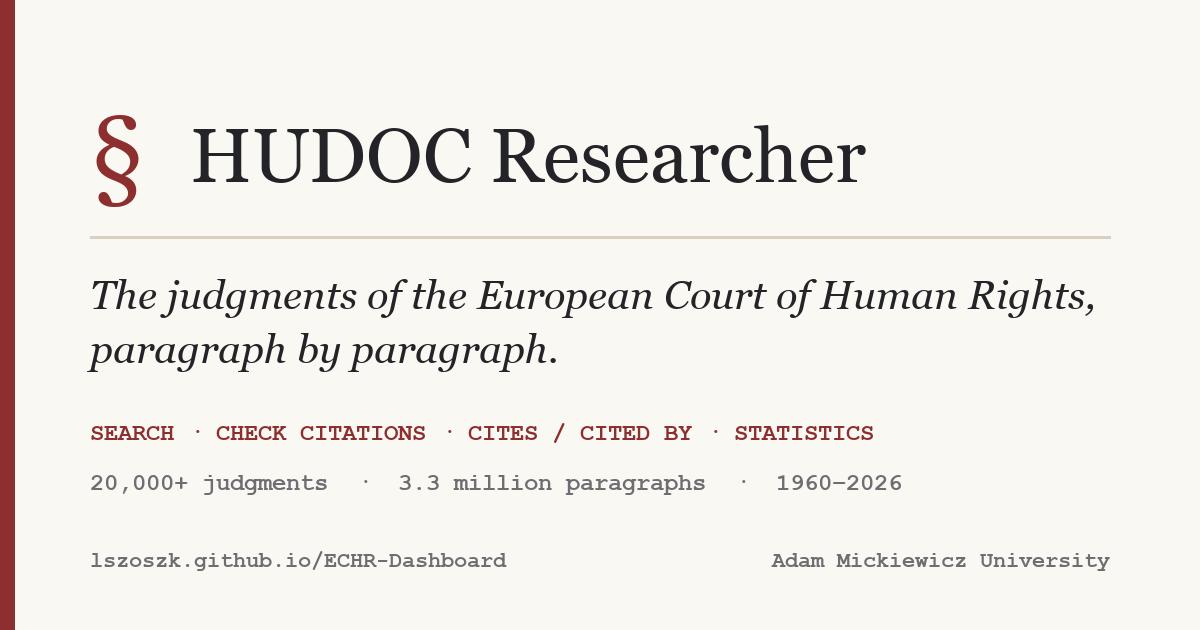
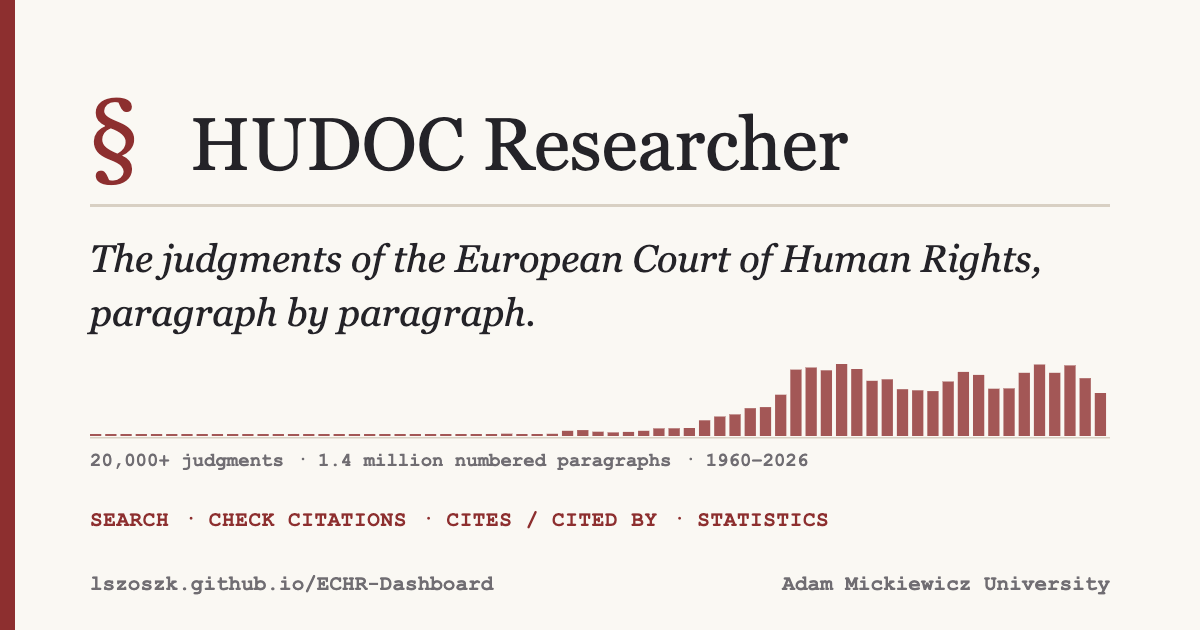
Remove the dead stat-bar code from search-app.js; new social preview card (SVG source + PNG)
statTotalCases / statTotalParagraphs / statTotalCountries / statDateRange have no element in
index.html, so every write went to a detached span: the four lookups, renderGlobalStats(), the
stats-fetch writes and the stats.json fallback are removed. Behaviour is unchanged.

Social card: docs/assets/social-card.svg is the source; social-card.png (1200x630, rendered from
it) is what og:image points to, because Facebook, LinkedIn, X, Slack and WhatsApp do not show
SVG previews. New card has judgments per year from the live data; og:image gets ?v= to refresh
crawler caches.

diff --git a/docs/assets/search-app.js b/docs/assets/search-app.js
@@ -804,10 +804,6 @@ function cacheElements() {
 
   // Corpus figures: no longer shown on this page (the tour and the Collection block give them);
   // detached stand-ins keep the code that fills them harmless.
-  el.statTotalCases = byId("statTotalCases") || document.createElement("span");
-  el.statTotalParagraphs = byId("statTotalParagraphs") || document.createElement("span");
-  el.statTotalCountries = byId("statTotalCountries") || document.createElement("span");
-  el.statDateRange = byId("statDateRange") || document.createElement("span");
 
   el.resultsHeader = byId("resultsHeader");
   el.inlineSearchForm = byId("inlineSearchForm");
@@ -2769,28 +2765,6 @@ function initFilterMode() {
   document.querySelectorAll("[data-filter-mode]").forEach((b) => {
     b.addEventListener("click", () => setFilterMode(b.dataset.filterMode, true));
   });
-}
-
-function renderGlobalStats() {
-  // When server API is connected, KPI bar shows full server stats — don't overwrite
-  if (serverSearch.available) return;
-
-  const dates = state.cases
-    .map((c) => c.__judgmentDateTs)
-    .filter((x) => Number.isFinite(x))
-    .sort((a, b) => a - b);
-
-  let dateRange = "n/a";
-  if (dates.length) {
-    const first = new Date(dates[0]).toISOString().slice(0, 10);
-    const last = new Date(dates[dates.length - 1]).toISOString().slice(0, 10);
-    dateRange = `${first} to ${last}`;
-  }
-
-  el.statTotalCases.textContent = fmtInt.format(state.cases.length);
-  el.statTotalParagraphs.textContent = fmtInt.format(state.paragraphIndex.length);
-  el.statTotalCountries.textContent = fmtInt.format(state.countries.length);
-  el.statDateRange.textContent = dateRange;
 }
 
 function collectChecked(name) {
@@ -7098,7 +7072,6 @@ async function activateDataset(rawRows, sourceLabel, metaLine, invalidCount = 0)
 
   preprocessDataset(normalized);
   renderFilters();
-  renderGlobalStats();
 
   state.sourceLabel = sourceLabel;
 
@@ -7789,13 +7762,10 @@ function init() {
       setSearchEnabled(true);
       setApiStatus("live");
 
-      // Fetch full stats from server for KPI bar
+      // Full corpus figures from the server
       try {
         const statsData = await serverSearch.getStats();
         const fmt = new Intl.NumberFormat("en-US");
-        el.statTotalCases.textContent = fmt.format(statsData.total_cases || 0);
-        el.statTotalParagraphs.textContent = fmt.format(statsData.total_paragraphs || 0);
-        el.statTotalCountries.textContent = fmt.format(statsData.total_countries || 0);
         // The machine-translation option appears only where translations are loaded.
         const mtN = statsData.total_machine_translations || 0;
         const mtPill = document.getElementById("mtPill");
@@ -7808,11 +7778,6 @@ function init() {
         if (state.defaultView && state.corpusTotal && !el.resultsHeader.hidden) el.resultsCases.textContent = fmt.format(state.corpusTotal);
         const officialCount = document.getElementById("officialCount");
         if (officialCount && statsData.total_judgments) officialCount.textContent = fmt.format(statsData.total_judgments);
-        // Parse DD/MM/YYYY dates into readable range
-        const parseDMY = (s) => { if (!s) return null; const p = s.split("/"); return p.length === 3 ? `${p[2]}-${p[1]}-${p[0]}` : s; };
-        const df = parseDMY(statsData.date_from);
-        const dt = parseDMY(statsData.date_to);
-        if (df && dt) el.statDateRange.textContent = `${df} to ${dt}`;
       } catch (e) {
         console.warn("[Server Stats] Could not fetch stats:", e);
       }
@@ -7942,22 +7907,6 @@ function init() {
       const sourceActions = document.getElementById("sourceActions");
       if (sourceActions) sourceActions.classList.remove("hidden");
       document.getElementById("loadSampleBtn")?.click();
-
-      // Try to populate KPI from stats.json
-      try {
-        const r = await fetch("data/stats.json");
-        if (r.ok) {
-          const data = await r.json();
-          if (data?.summary) {
-            const s = data.summary;
-            const fmt = new Intl.NumberFormat("en-US");
-            if (el.statTotalCases.textContent === "-") el.statTotalCases.textContent = fmt.format(s.total_cases || 0);
-            if (el.statTotalParagraphs.textContent === "-") el.statTotalParagraphs.textContent = fmt.format(s.total_paragraphs || 0);
-            if (el.statTotalCountries.textContent === "-") el.statTotalCountries.textContent = fmt.format(s.unique_countries || 0);
-            if (el.statDateRange.textContent === "-") el.statDateRange.textContent = s.date_range_label || "-";
-          }
-        }
-      } catch (_) {}
     }
   });
 }

diff --git a/docs/index.html b/docs/index.html
@@ -11,7 +11,7 @@
   <meta property="og:title" content="HUDOC Researcher — Paragraph-Level Search">
   <meta property="og:description" content="Search every paragraph of the European Court of Human Rights&#x27; judgments in English: about 20,000 judgments split into the Court&#x27;s numbered paragraphs, with HUDOC operators, filters, OSCOLA citations and Cites / Cited by.">
   <meta property="og:url" content="https://lszoszk.github.io/ECHR-Dashboard/">
-  <meta property="og:image" content="https://lszoszk.github.io/ECHR-Dashboard/assets/social-card.png">
+  <meta property="og:image" content="https://lszoszk.github.io/ECHR-Dashboard/assets/social-card.png?v=20261011">
   <meta property="og:image:width" content="1200">
   <meta property="og:image:height" content="630">
   <meta property="og:image:alt" content="HUDOC Researcher — the judgments of the European Court of Human Rights, paragraph by paragraph">
@@ -564,6 +564,6 @@
 
   <button class="back-to-top" id="backToTopBtn" type="button" aria-label="Back to top" hidden>&uarr;</button>
 
-  <script src="assets/search-app.js?v=20261011-full"></script>
+  <script src="assets/search-app.js?v=20261011-nostat"></script>
 </body>
 </html>

diff --git a/docs/methodology.html b/docs/methodology.html
@@ -11,7 +11,7 @@
   <meta property="og:title" content="Methodology — HUDOC Researcher">
   <meta property="og:description" content="How HUDOC Researcher splits ECtHR judgments into numbered paragraphs, labels their sections, builds the citation graph and translates French-only judgments, with validation figures and known limits.">
   <meta property="og:url" content="https://lszoszk.github.io/ECHR-Dashboard/methodology.html">
-  <meta property="og:image" content="https://lszoszk.github.io/ECHR-Dashboard/assets/social-card.png">
+  <meta property="og:image" content="https://lszoszk.github.io/ECHR-Dashboard/assets/social-card.png?v=20261011">
   <meta property="og:image:width" content="1200">
   <meta property="og:image:height" content="630">
   <meta property="og:image:alt" content="HUDOC Researcher — the judgments of the European Court of Human Rights, paragraph by paragraph">

diff --git a/docs/analytics.html b/docs/analytics.html
@@ -11,7 +11,7 @@
   <meta property="og:title" content="Statistics — HUDOC Researcher">
   <meta property="og:description" content="Statistics on about 20,000 judgments of the European Court of Human Rights: by year, Convention Article, respondent State, outcome, HUDOC topic and citation.">
   <meta property="og:url" content="https://lszoszk.github.io/ECHR-Dashboard/analytics.html">
-  <meta property="og:image" content="https://lszoszk.github.io/ECHR-Dashboard/assets/social-card.png">
+  <meta property="og:image" content="https://lszoszk.github.io/ECHR-Dashboard/assets/social-card.png?v=20261011">
   <meta property="og:image:width" content="1200">
   <meta property="og:image:height" content="630">
   <meta property="og:image:alt" content="HUDOC Researcher — the judgments of the European Court of Human Rights, paragraph by paragraph">

diff --git a/docs/check.html b/docs/check.html
@@ -11,7 +11,7 @@
   <meta property="og:title" content="Citation Check — HUDOC Researcher">
   <meta property="og:description" content="Paste a text and check every citation of a European Court of Human Rights judgment in it: case name, application number, paragraph number and quotation.">
   <meta property="og:url" content="https://lszoszk.github.io/ECHR-Dashboard/check.html">
-  <meta property="og:image" content="https://lszoszk.github.io/ECHR-Dashboard/assets/social-card.png">
+  <meta property="og:image" content="https://lszoszk.github.io/ECHR-Dashboard/assets/social-card.png?v=20261011">
   <meta property="og:image:width" content="1200">
   <meta property="og:image:height" content="630">
   <meta property="og:image:alt" content="HUDOC Researcher — the judgments of the European Court of Human Rights, paragraph by paragraph">

diff --git a/docs/semantic.html b/docs/semantic.html
@@ -11,7 +11,7 @@
   <meta property="og:title" content="Semantic Search — HUDOC Researcher">
   <meta property="og:description" content="Describe a situation in plain language and find the European Court of Human Rights judgments and paragraphs closest to it (experimental).">
   <meta property="og:url" content="https://lszoszk.github.io/ECHR-Dashboard/semantic.html">
-  <meta property="og:image" content="https://lszoszk.github.io/ECHR-Dashboard/assets/social-card.png">
+  <meta property="og:image" content="https://lszoszk.github.io/ECHR-Dashboard/assets/social-card.png?v=20261011">
   <meta property="og:image:width" content="1200">
   <meta property="og:image:height" content="630">
   <meta property="og:image:alt" content="HUDOC Researcher — the judgments of the European Court of Human Rights, paragraph by paragraph">

diff --git a/docs/about.html b/docs/about.html
@@ -11,7 +11,7 @@
   <meta property="og:title" content="About — HUDOC Researcher">
   <meta property="og:description" content="About HUDOC Researcher: authors, how to cite it (Zenodo DOI), licences, the open dataset on Hugging Face and the MCP server for AI assistants.">
   <meta property="og:url" content="https://lszoszk.github.io/ECHR-Dashboard/about.html">
-  <meta property="og:image" content="https://lszoszk.github.io/ECHR-Dashboard/assets/social-card.png">
+  <meta property="og:image" content="https://lszoszk.github.io/ECHR-Dashboard/assets/social-card.png?v=20261011">
   <meta property="og:image:width" content="1200">
   <meta property="og:image:height" content="630">
   <meta property="og:image:alt" content="HUDOC Researcher — the judgments of the European Court of Human Rights, paragraph by paragraph">

diff --git a/docs/workspace.html b/docs/workspace.html
@@ -12,7 +12,7 @@
   <meta property="og:title" content="Workspace — HUDOC Researcher">
   <meta property="og:description" content="The paragraphs and searches you saved in HUDOC Researcher, with your notes, kept in your browser.">
   <meta property="og:url" content="https://lszoszk.github.io/ECHR-Dashboard/workspace.html">
-  <meta property="og:image" content="https://lszoszk.github.io/ECHR-Dashboard/assets/social-card.png">
+  <meta property="og:image" content="https://lszoszk.github.io/ECHR-Dashboard/assets/social-card.png?v=20261011">
   <meta property="og:image:width" content="1200">
   <meta property="og:image:height" content="630">
   <meta property="og:image:alt" content="HUDOC Researcher — the judgments of the European Court of Human Rights, paragraph by paragraph">
